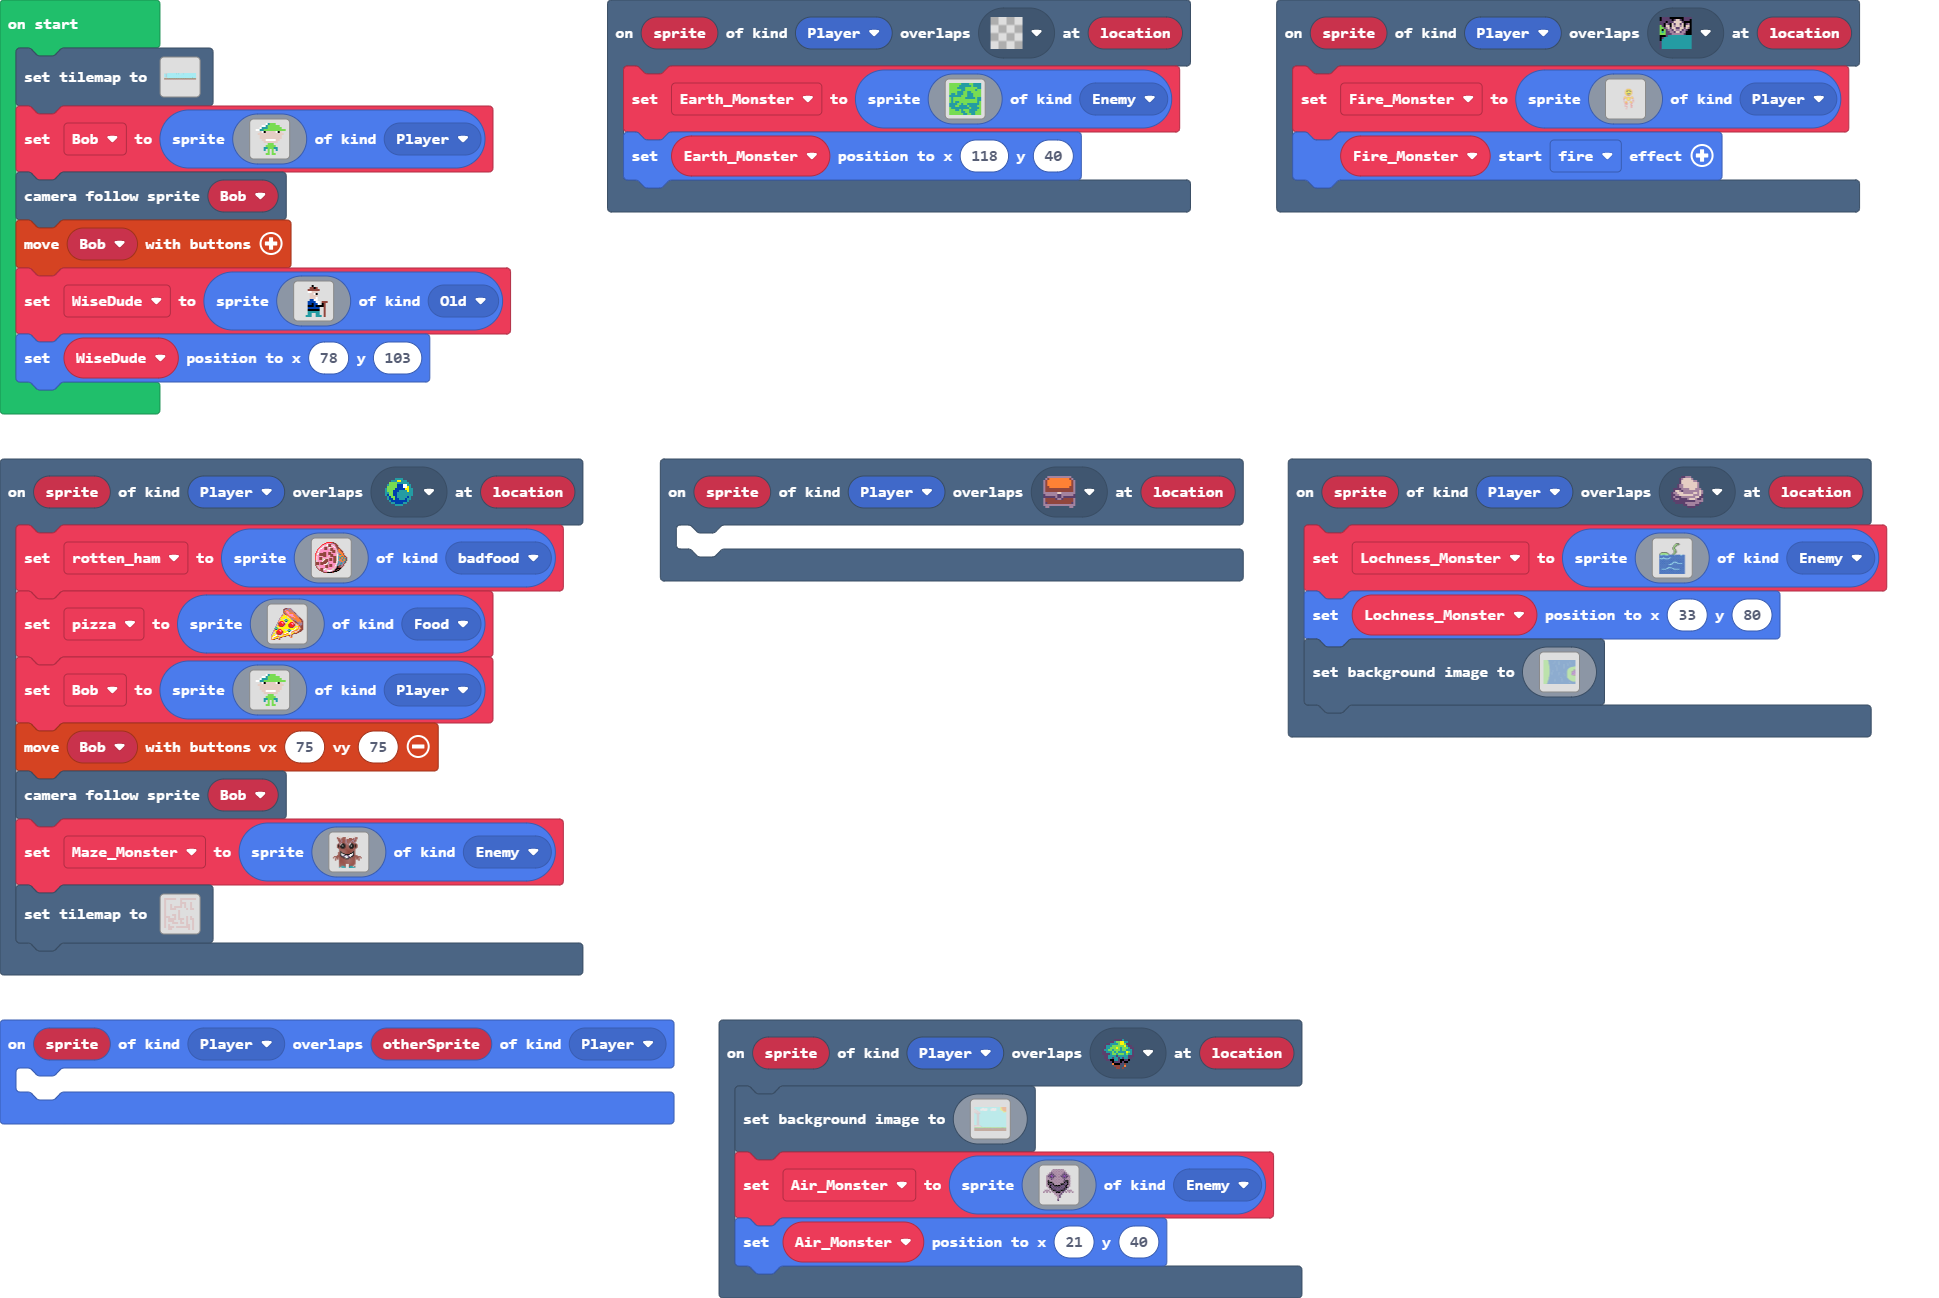
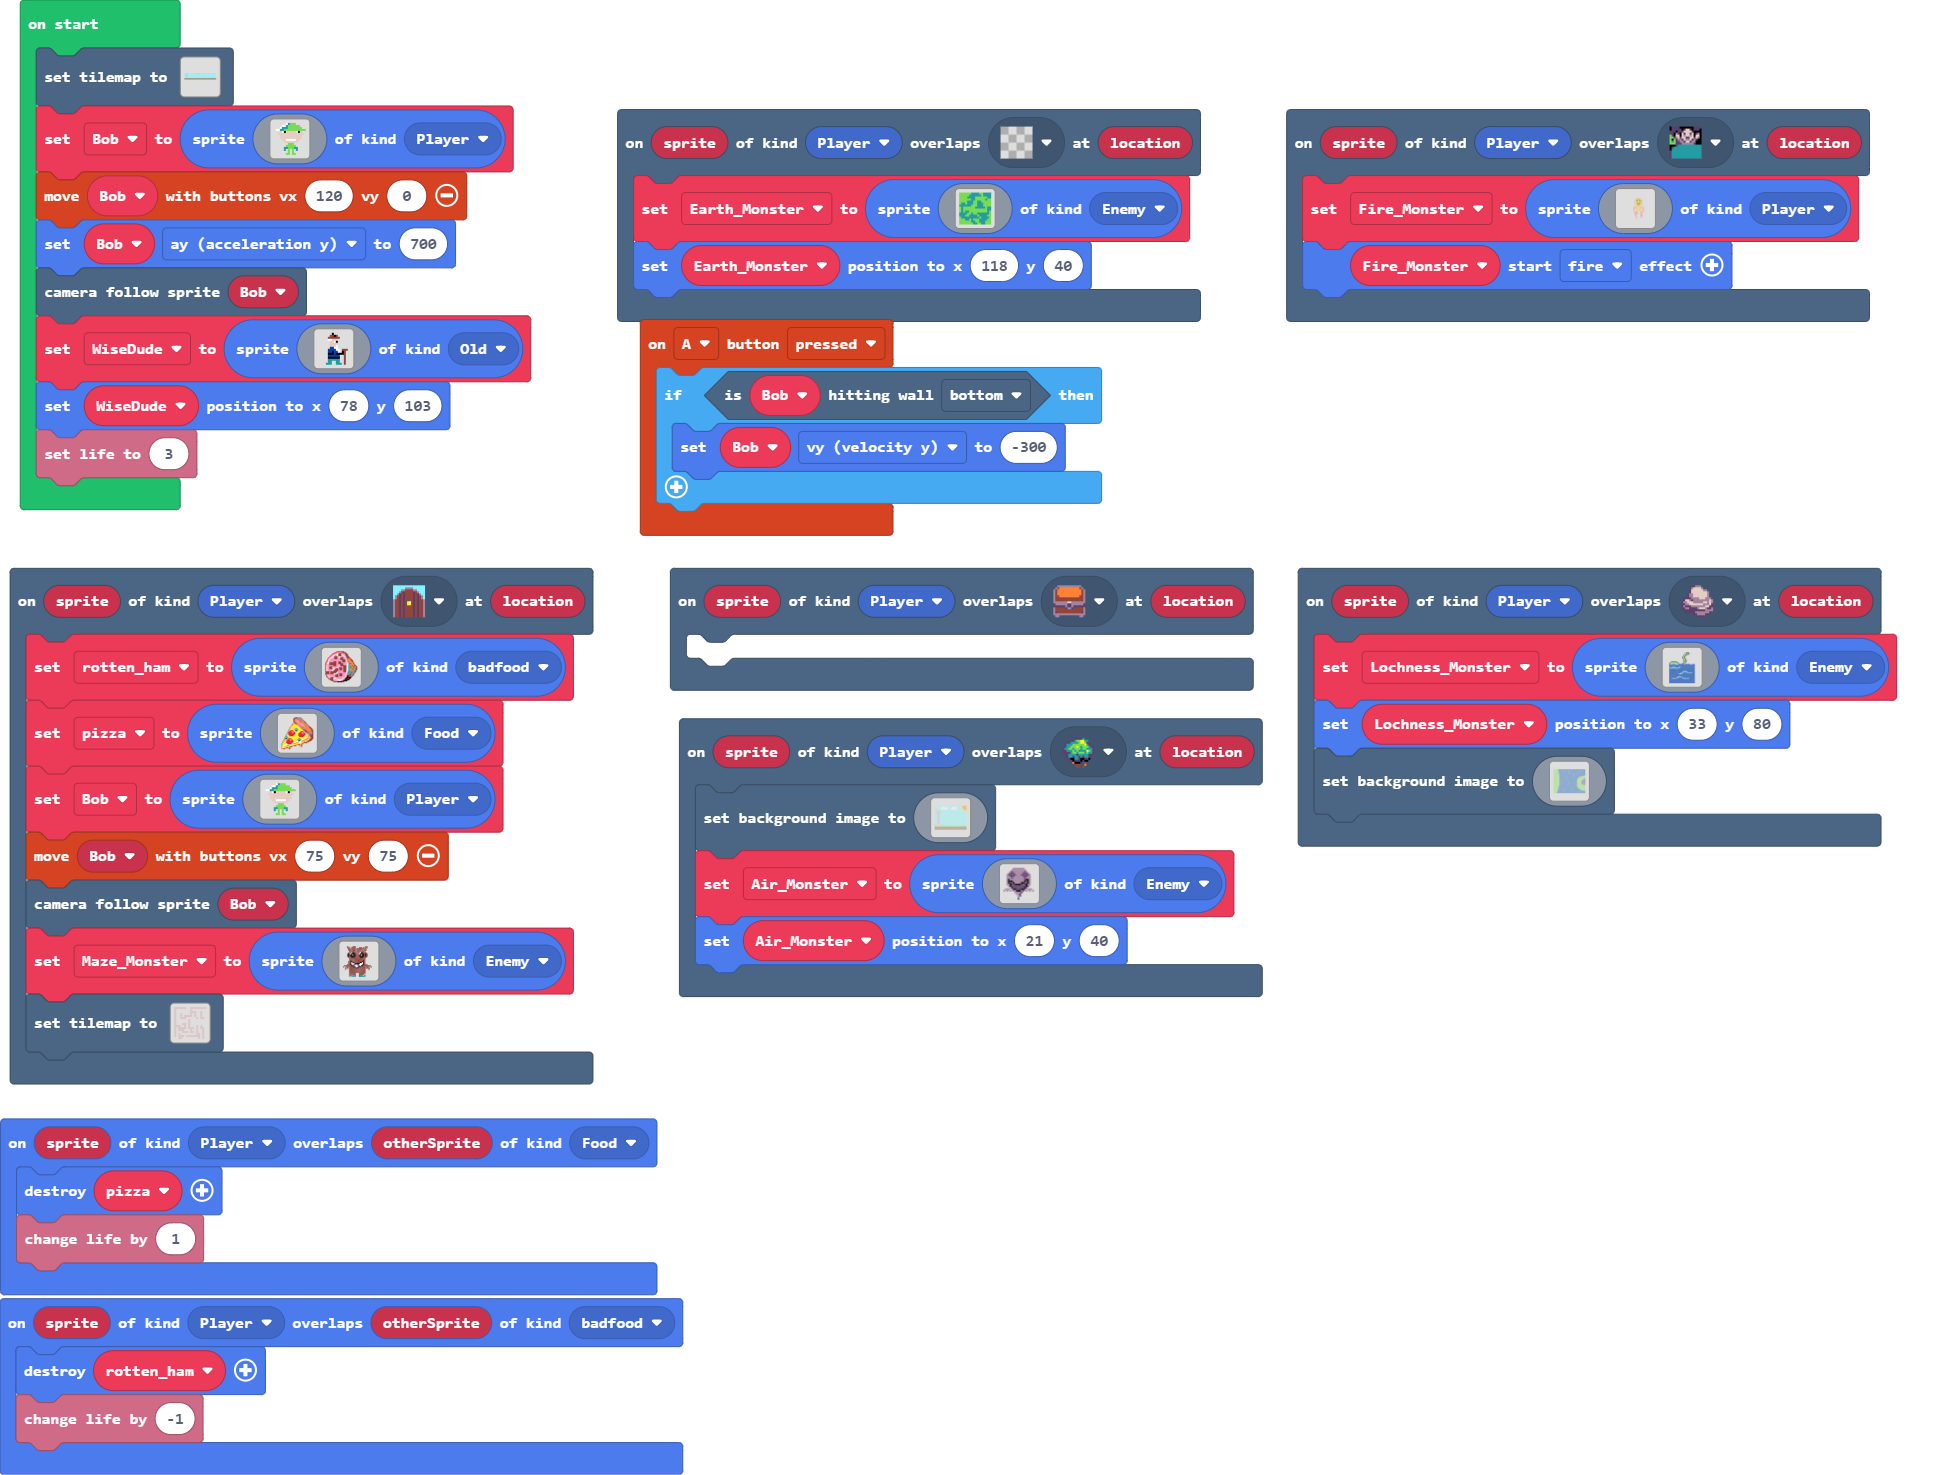
Update main.blocks, main.ts, tilemap.g.jres, tilemap.g.ts

diff --git a/main.ts b/main.ts
@@ -2,6 +2,10 @@ namespace SpriteKind {
     export const Old = SpriteKind.create()
     export const badfood = SpriteKind.create()
 }
+sprites.onOverlap(SpriteKind.Player, SpriteKind.badfood, function (sprite, otherSprite) {
+    rotten_ham.destroy()
+    info.changeLifeBy(-1)
+})
 scene.onOverlapTile(SpriteKind.Player, myTiles.transparency16, function (sprite, location) {
     Earth_Monster = sprites.create(img`
         7 7 7 7 7 7 6 6 6 6 7 7 6 6 6 6 
@@ -23,72 +27,12 @@ scene.onOverlapTile(SpriteKind.Player, myTiles.transparency16, function (sprite,
         `, SpriteKind.Enemy)
     Earth_Monster.setPosition(118, 40)
 })
-scene.onOverlapTile(SpriteKind.Player, sprites.builtin.crowd4, function (sprite, location) {
-    Fire_Monster = sprites.create(img`
-        ....................................
-        ....................................
-        ....................................
-        ....................................
-        ....................................
-        ....................................
-        ....................................
-        ....................................
-        ....................................
-        ....................................
-        ....................................
-        .....................4444444........
-        ....................455555554.......
-        ...................45ff555ff54......
-        ..................45555f5f55554.....
-        ..................455ff5555ff54.....
-        ..................455ff5555ff54.....
-        ..................4555555555554.....
-        ..................4555555555554.....
-        ..................4555ffffff554.....
-        ..................4555f1111f554.....
-        ...................4555f11f554......
-        ....................4555ff554.......
-        .....................4444444........
-        ....................................
-        .................44...........44....
-        ................4554..44444..4554...
-        ................4554.4555554.4554...
-        ................4554.4555554.4554...
-        ...............2.44..4555554..44.2..
-        ...............2.....4555554........
-        ...............2.....4555554.....2..
-        ......................44444......2..
-        ...............2.................2..
-        ...................44.......44......
-        ...............2..4554.....4554..2..
-        ..................4554.....4554.....
-        ..................2442......442.....
-        ..................2.2.2.......2.....
-        .............................2......
-        ..................2.22.......2......
-        ..............................2.....
-        ..................2..........22.....
-        ..................2..2..............
-        ....................2........22.....
-        ..............................2.....
-        .....................2.......2......
-        ....................................
-        ....................2...............
-        ....................................
-        ....................................
-        ....................................
-        ....................................
-        ....................................
-        ....................................
-        ....................................
-        ....................................
-        ....................................
-        ....................................
-        ....................................
-        `, SpriteKind.Player)
-    Fire_Monster.startEffect(effects.fire)
+controller.A.onEvent(ControllerButtonEvent.Pressed, function () {
+    if (Bob.isHittingTile(CollisionDirection.Bottom)) {
+        Bob.vy = -300
+    }
 })
-scene.onOverlapTile(SpriteKind.Player, sprites.dungeon.collectibleBlueCrystal, function (sprite, location) {
+scene.onOverlapTile(SpriteKind.Player, myTiles.tile8, function (sprite, location) {
     rotten_ham = sprites.create(img`
         ...........222222ee.............
         .........2233333bbeee...........
@@ -227,6 +171,71 @@ scene.onOverlapTile(SpriteKind.Player, sprites.dungeon.collectibleBlueCrystal, f
         2 . 2 2 2 . 2 2 2 2 2 2 2 . 2 . 
         . . 2 2 . . . . . . . . 2 . 2 . 
         `, [myTiles.transparency16,sprites.dungeon.floorLight0], TileScale.Sixteen))
+})
+scene.onOverlapTile(SpriteKind.Player, sprites.builtin.crowd4, function (sprite, location) {
+    Fire_Monster = sprites.create(img`
+        ....................................
+        ....................................
+        ....................................
+        ....................................
+        ....................................
+        ....................................
+        ....................................
+        ....................................
+        ....................................
+        ....................................
+        ....................................
+        .....................4444444........
+        ....................455555554.......
+        ...................45ff555ff54......
+        ..................45555f5f55554.....
+        ..................455ff5555ff54.....
+        ..................455ff5555ff54.....
+        ..................4555555555554.....
+        ..................4555555555554.....
+        ..................4555ffffff554.....
+        ..................4555f1111f554.....
+        ...................4555f11f554......
+        ....................4555ff554.......
+        .....................4444444........
+        ....................................
+        .................44...........44....
+        ................4554..44444..4554...
+        ................4554.4555554.4554...
+        ................4554.4555554.4554...
+        ...............2.44..4555554..44.2..
+        ...............2.....4555554........
+        ...............2.....4555554.....2..
+        ......................44444......2..
+        ...............2.................2..
+        ...................44.......44......
+        ...............2..4554.....4554..2..
+        ..................4554.....4554.....
+        ..................2442......442.....
+        ..................2.2.2.......2.....
+        .............................2......
+        ..................2.22.......2......
+        ..............................2.....
+        ..................2..........22.....
+        ..................2..2..............
+        ....................2........22.....
+        ..............................2.....
+        .....................2.......2......
+        ....................................
+        ....................2...............
+        ....................................
+        ....................................
+        ....................................
+        ....................................
+        ....................................
+        ....................................
+        ....................................
+        ....................................
+        ....................................
+        ....................................
+        ....................................
+        `, SpriteKind.Player)
+    Fire_Monster.startEffect(effects.fire)
 })
 scene.onOverlapTile(SpriteKind.Player, sprites.dungeon.chestClosed, function (sprite, location) {
 	
@@ -408,8 +417,9 @@ scene.onOverlapTile(SpriteKind.Player, sprites.castle.rock0, function (sprite, l
         7777777777777777788888888888888888888888888888888888888888888888888888888888888888888888888888888888888888888888888888888888888888888888898888888888888888888888
         `)
 })
-sprites.onOverlap(SpriteKind.Player, SpriteKind.Player, function (sprite, otherSprite) {
-	
+sprites.onOverlap(SpriteKind.Player, SpriteKind.Food, function (sprite, otherSprite) {
+    pizza.destroy()
+    info.changeLifeBy(1)
 })
 scene.onOverlapTile(SpriteKind.Player, sprites.castle.saplingOak, function (sprite, location) {
     scene.setBackgroundImage(img`
@@ -560,13 +570,13 @@ scene.onOverlapTile(SpriteKind.Player, sprites.castle.saplingOak, function (spri
 })
 let Air_Monster: Sprite = null
 let Lochness_Monster: Sprite = null
+let Fire_Monster: Sprite = null
 let Maze_Monster: Sprite = null
 let pizza: Sprite = null
-let rotten_ham: Sprite = null
-let Fire_Monster: Sprite = null
 let Earth_Monster: Sprite = null
+let rotten_ham: Sprite = null
 let Bob: Sprite = null
[2 lines of base64/hex data omitted]
     22222.............................................
     ..................................................
     ..................................................
@@ -577,7 +587,7 @@ tiles.setTilemap(tiles.createTilemap(hex`32000a000404040404030303030303030303030
     22222.............................................
     22222222222222222222222222222222222222222222222222
     22222222222222222222222222222222222222222222222222
-    `, [myTiles.transparency16,myTiles.tile1,myTiles.tile3,myTiles.tile4,myTiles.tile5,myTiles.tile6,sprites.dungeon.collectibleBlueCrystal,sprites.castle.rock0,sprites.builtin.brick,sprites.castle.saplingOak,sprites.builtin.crowd4], TileScale.Sixteen))
+    `, [myTiles.transparency16,myTiles.tile1,myTiles.tile3,myTiles.tile4,myTiles.tile5,myTiles.tile6,sprites.castle.rock0,sprites.builtin.brick,sprites.castle.saplingOak,sprites.builtin.crowd4,myTiles.tile8], TileScale.Sixteen))
 Bob = sprites.create(img`
     . . . . . . 1 6 7 7 7 . . . . . 
     . . . . 1 1 6 7 7 7 7 7 7 . . . 
@@ -596,8 +606,9 @@ Bob = sprites.create(img`
     . . . . . . . 7 . 7 . . . . . . 
     . . . . . . 7 7 . 7 7 . . . . . 
     `, SpriteKind.Player)
+controller.moveSprite(Bob, 120, 0)
+Bob.ay = 700
 scene.cameraFollowSprite(Bob)
-controller.moveSprite(Bob)
 let WiseDude = sprites.create(img`
     . . . . . . . f . . . . . . . . 
     . . . . . . e e f e . . . . . . 
@@ -617,3 +628,4 @@ let WiseDude = sprites.create(img`
     . . . . 6 6 6 . . 6 6 6 . e . . 
     `, SpriteKind.Old)
 WiseDude.setPosition(78, 103)
+info.setLife(3)

diff --git a/tilemap.g.ts b/tilemap.g.ts
@@ -16,6 +16,8 @@ namespace myTiles {
     export const tile6 = image.ofBuffer(hex``);
     //% fixedInstance jres blockIdentity=images._tile
     export const tile7 = image.ofBuffer(hex``);
+    //% fixedInstance jres blockIdentity=images._tile
+    export const tile8 = image.ofBuffer(hex``);
 
 }
 // Auto-generated code. Do not edit.
